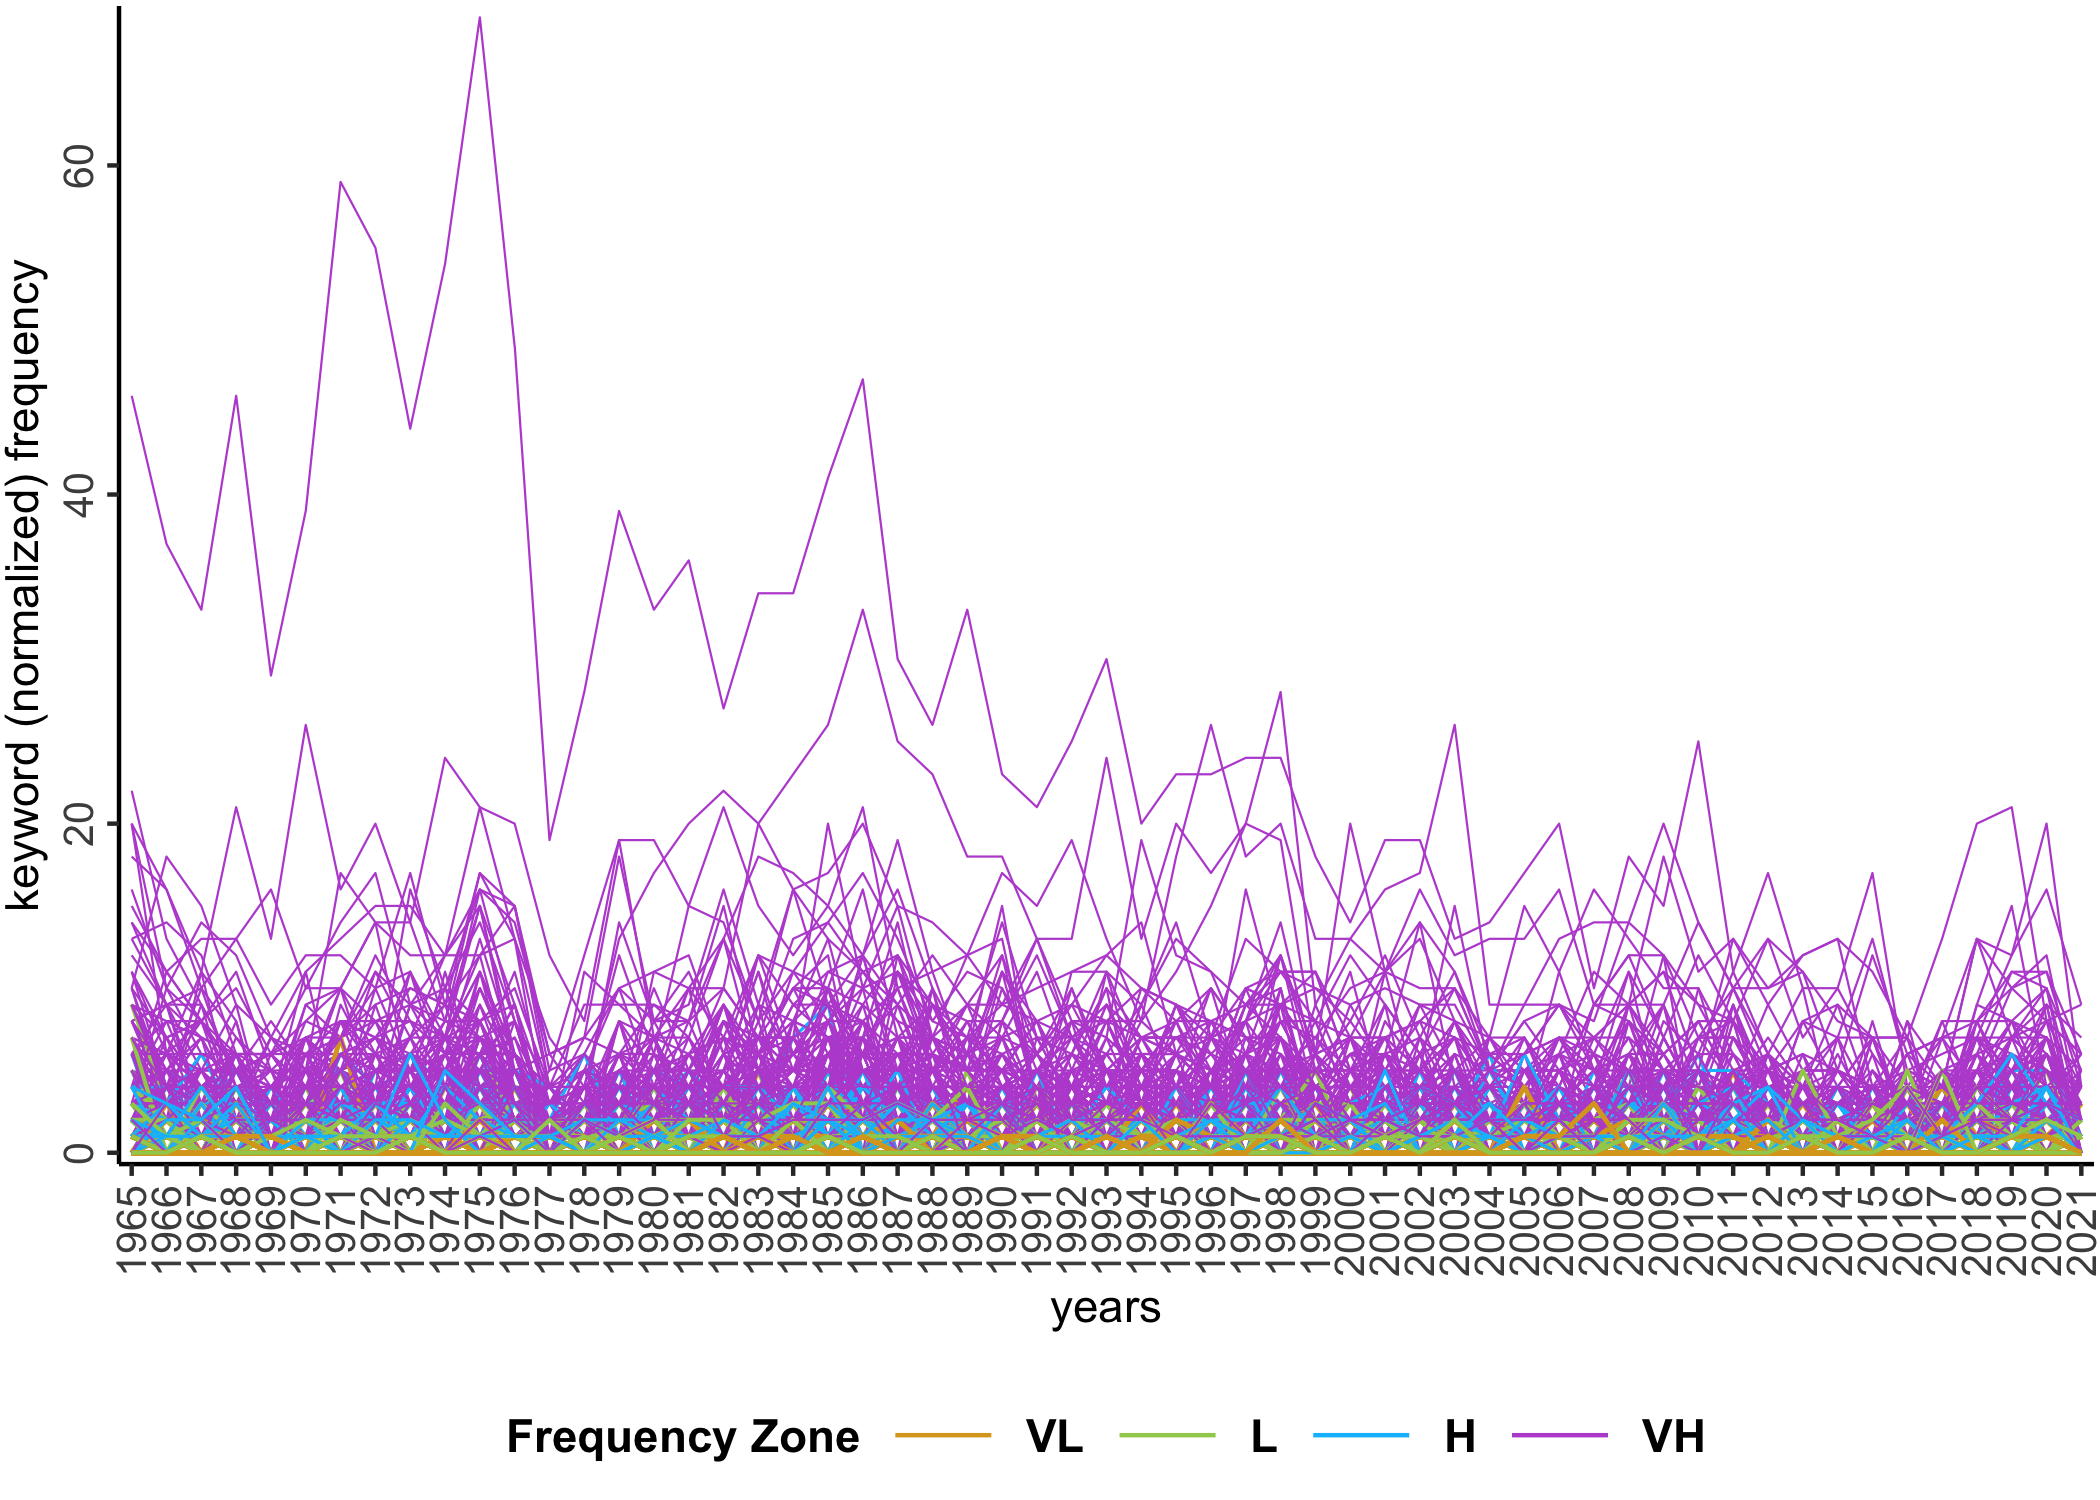
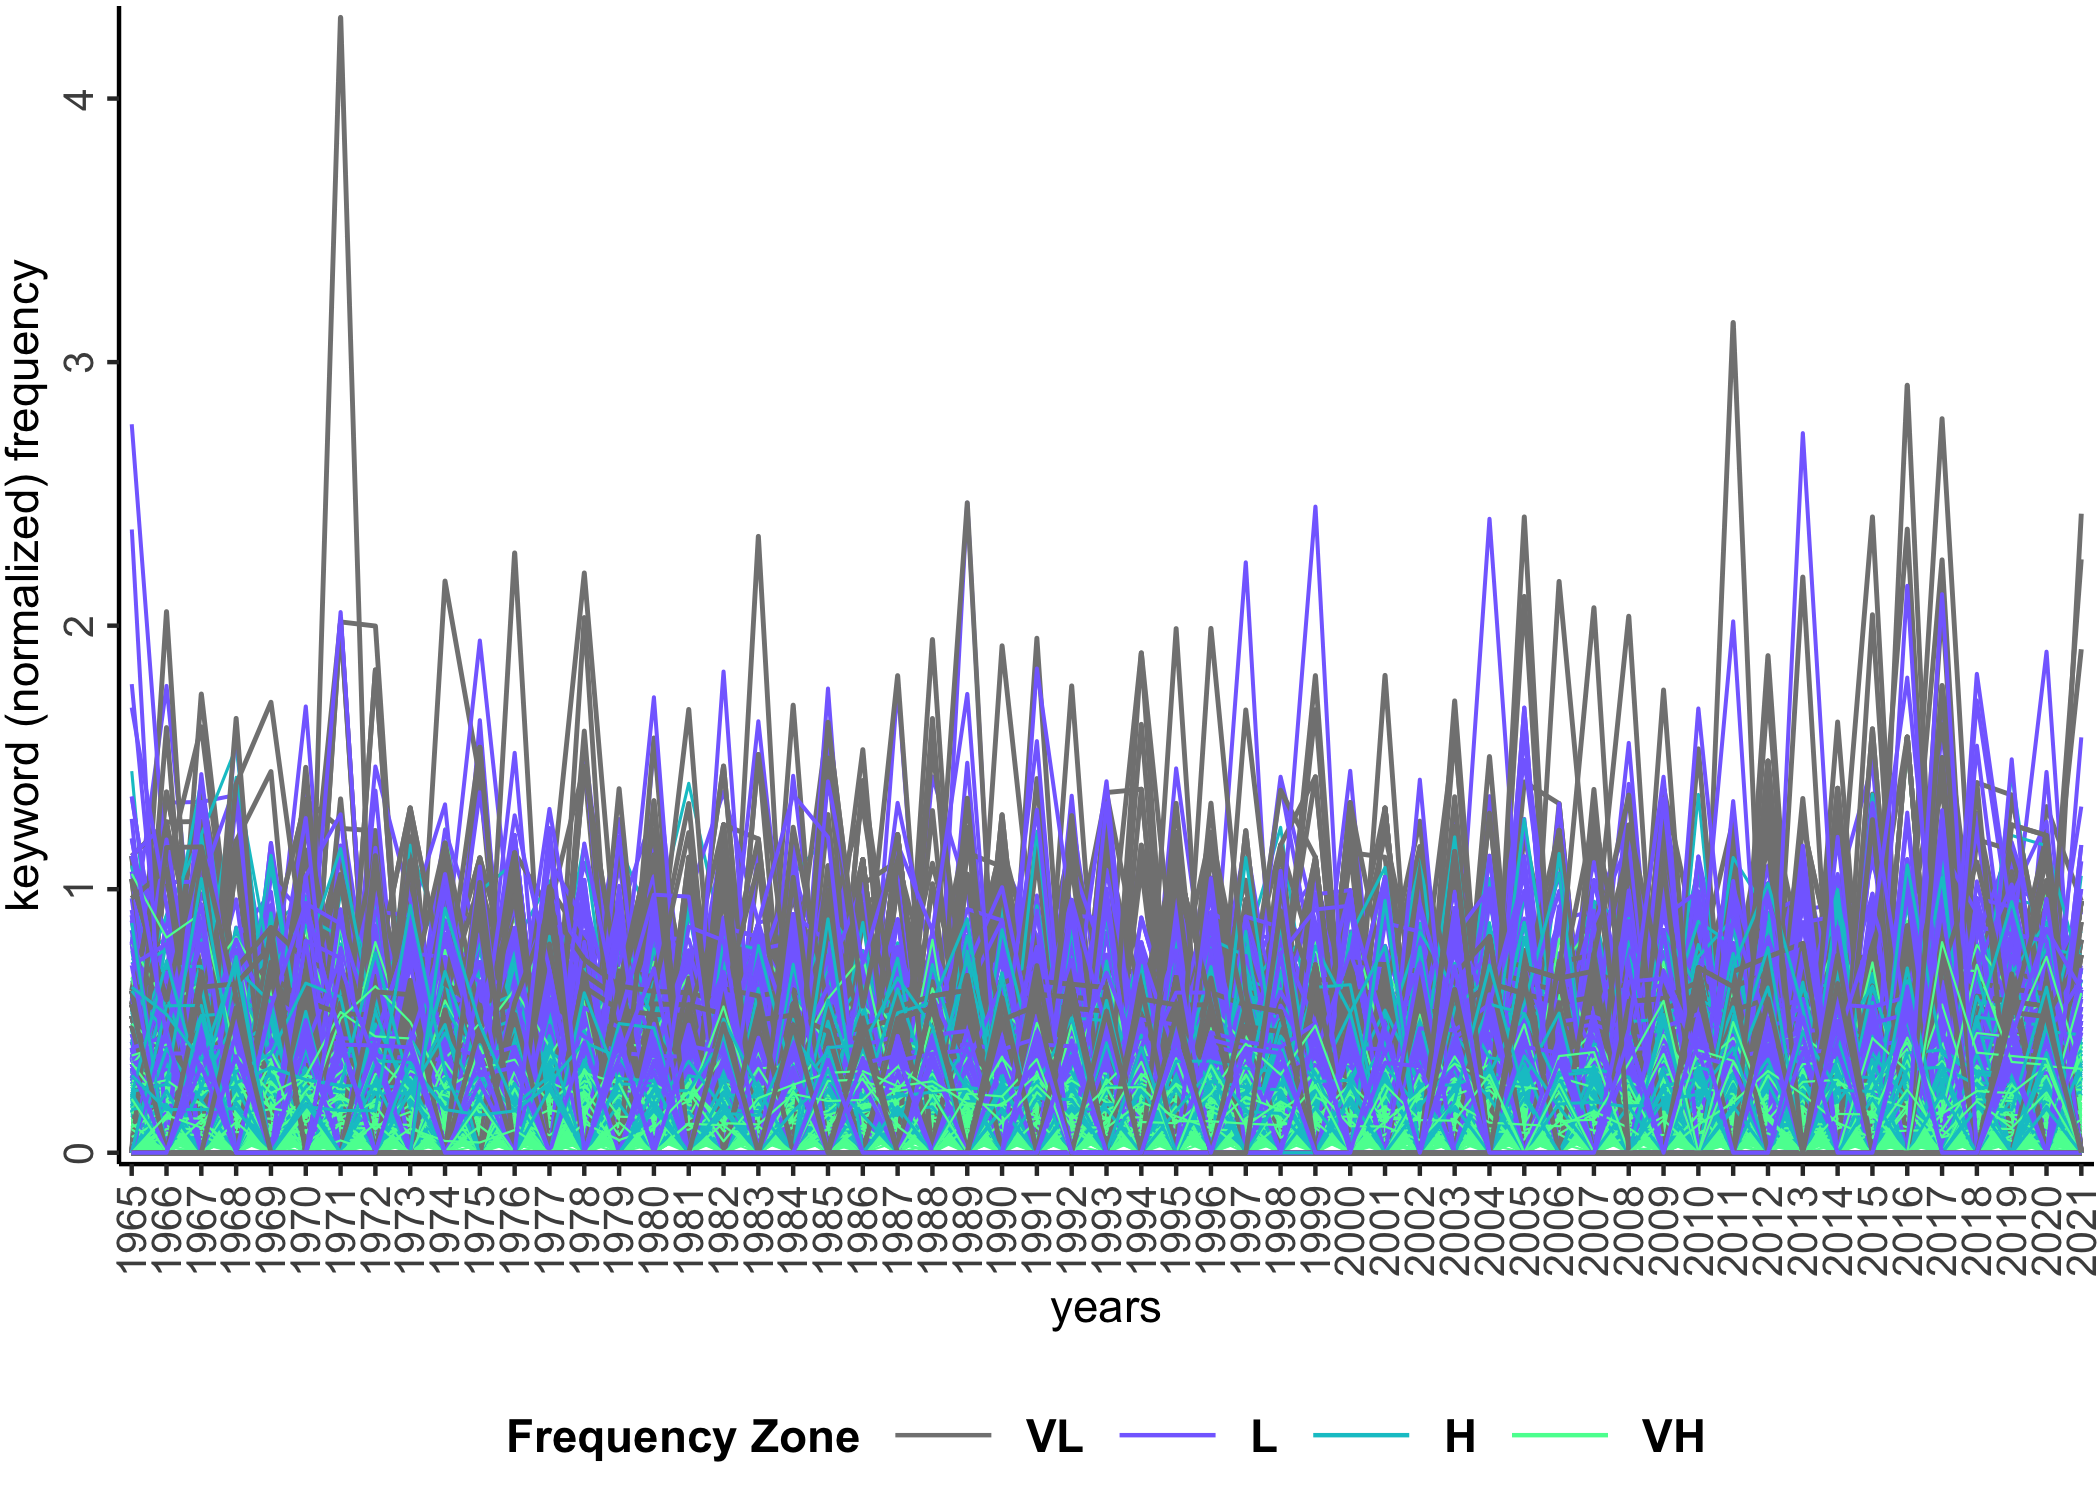
facetPlot

diff --git a/README.md b/README.md
@@ -613,3 +613,12 @@ curve_nchi
 ```
 
 <img src="man/figures/README-unnamed-chunk-14-1.png" width="100%" />
+
+``` r
+facet_plot <- facetPlot(data, keyword_selection = list(type="frequency", n=3, kw.list=NULL),
+                       r = 4, scales = "free", leg = TRUE, themety = "light",
+                       size_class = NULL, x_lab = "year")
+facet_plot
+```
+
+<img src="man/figures/README-unnamed-chunk-15-1.png" width="100%" />
